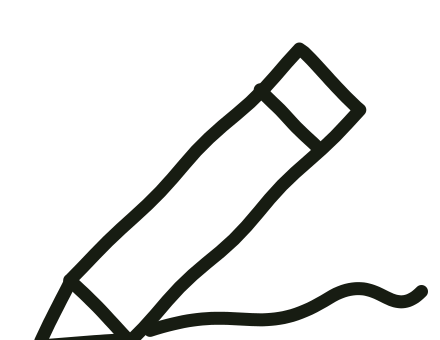
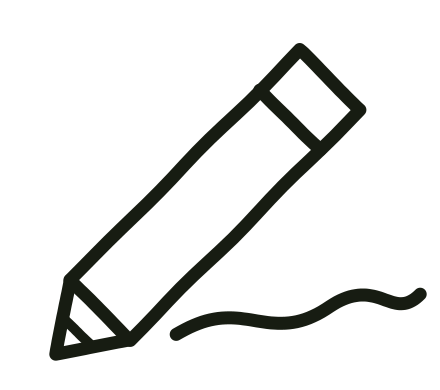
Underlines clear the text below them; ceruza and mosoly redrawn
- Headings with an underline get bottom padding (0.24em; 0.6em for the
  long kunkor/pup/hurok/szaggatott strokes, which scale with the word and
  ran into the note or paragraph below). Checked on all five pages at
  1280 and 375px: every stroke sits on its heading's last line and clears
  the next element.
- Gyermekek: "Biztonság" underline moves to the last-line word ("első"),
  Ajándékok to "eszközök", and Visszajelzés gets the long pup so the
  centred heading's stroke spans "milyen volt!".
- Adománybolt: the konfetti drawing moves from above the list to its
  bottom-right corner.
- ceruza: a pointed, on-axis tip with a lead line, a calmer body, and a
  taller canvas so the tip is no longer cut off. mosoly: a smooth smile
  without the cheek ticks.

Changed region(s): [[0.0591, 0.0882, 0.975, 1.0]]

diff --git a/Gyerekek es szulok.dc.html b/Gyerekek es szulok.dc.html
@@ -135,7 +135,7 @@
       <div data-reveal="" data-sticky="" style="position:sticky;top:110px;display:flex;flex-direction:column;gap:20px;">
         <img class="am-ill" data-ill-pop="wiggle" src="assets/illustrations/amigos-ill-sziv-green.png" alt="" aria-hidden="true" style="right:4%;top:-8px;height:clamp(56px,5.6vw,80px);width:auto;transform:rotate(10deg);">
         <span style="font-size:var(--text-label);letter-spacing:var(--ls-label);text-transform:uppercase;font-weight:600;color:var(--amigos-green-deep);">Biztonság és felkészültség</span>
-        <h2 style="margin:0;font-family:var(--font-hand);font-weight:700;font-size:var(--text-h2);line-height:var(--lh-h2);letter-spacing:var(--ls-h2);max-width:14ch;text-wrap:pretty;">A gyermekek <span class="am-underline am-underline--kunkor-green">biztonsága</span> az első</h2>
+        <h2 style="margin:0;font-family:var(--font-hand);font-weight:700;font-size:var(--text-h2);line-height:var(--lh-h2);letter-spacing:var(--ls-h2);max-width:14ch;text-wrap:pretty;">A gyermekek biztonsága az <span class="am-underline am-underline--kunkor-green">első</span></h2>
         <span class="am-note" style="--am-rot:-3deg;color:var(--amigos-green-deep);">→ felkészülten, figyelmesen</span>
         <p style="margin:0;font-size:var(--text-body);line-height:var(--lh-body);max-width:40ch;color:var(--amigos-ink-2);">Azért készítjük fel az Amigókat, hogy figyelmesen, felelősen és biztonságosan kapcsolódhassanak a gyermekekhez.</p>
         <a href="Amigos Aloldalak.dc.html#adatkezeles" style="font-size:var(--text-body);font-weight:600;text-decoration:none;color:var(--amigos-green-deep);">Adatkezelési tájékoztató →</a>
@@ -221,7 +221,7 @@
   <section id="ajandekok" data-screen-label="Tevékenységek — ajándékok, eszközök" style="background:var(--amigos-white);padding:clamp(72px,10vw,128px) 0;">
     <div style="max-width:1280px;margin:0 auto;padding:0 clamp(20px,4vw,48px);display:flex;flex-direction:column;gap:clamp(32px,5vw,56px);">
       <div data-reveal="" data-split="" style="display:grid;grid-template-columns:5fr 7fr;gap:clamp(24px,4vw,64px);align-items:start;">
-        <div style="position:relative;"><h3 style="margin:0;font-family:var(--font-hand);font-weight:700;font-size:clamp(30px,3vw,40px);line-height:1.05;letter-spacing:0.02em;color:var(--amigos-green-text);"><span class="am-underline am-underline--cikcakk-yellow">Ajándékok</span>, saját fejlesztésű eszközök</h3><img data-ill-pop="wiggle" data-ill-secondary src="assets/illustrations/amigos-ill-lufi-green.png" alt="" aria-hidden="true" style="display:block;margin-top:20px;width:clamp(64px,6vw,88px);height:auto;transform:rotate(10deg);"></div>
+        <div style="position:relative;"><h3 style="margin:0;font-family:var(--font-hand);font-weight:700;font-size:clamp(30px,3vw,40px);line-height:1.05;letter-spacing:0.02em;color:var(--amigos-green-text);">Ajándékok, saját fejlesztésű <span class="am-underline am-underline--cikcakk-yellow">eszközök</span></h3><img data-ill-pop="wiggle" data-ill-secondary src="assets/illustrations/amigos-ill-lufi-green.png" alt="" aria-hidden="true" style="display:block;margin-top:20px;width:clamp(64px,6vw,88px);height:auto;transform:rotate(10deg);"></div>
         <p style="margin:0;font-size:var(--text-body-lg);line-height:var(--lh-body-lg);max-width:52ch;color:var(--amigos-ink-2);">A KALANDobOZZ, a Világutazó, a karácsonyi- és gyermeknapi ajándékok akkor is elvihetik a játék és a felfedezés örömét a gyermekekhez, amikor személyesen nem tudunk találkozni.</p>
       </div>
       <div style="display:grid;grid-template-columns:repeat(3,minmax(0,1fr));gap:clamp(20px,3vw,32px);">
@@ -254,7 +254,7 @@
   <section id="visszajelzes" data-screen-label="Visszajelzés" style="position:relative;overflow:hidden;background:var(--amigos-green-pale);color:var(--amigos-ink);padding:clamp(64px,9vw,112px) 0 0;">
     <div data-reveal="" style="position:relative;max-width:840px;margin:0 auto;padding:0 clamp(20px,4vw,48px) clamp(32px,5vw,56px);display:flex;flex-direction:column;align-items:center;text-align:center;gap:18px;">
       <img class="am-ill" data-ill-pop="wiggle" data-ill-secondary src="assets/illustrations/amigos-ill-buborek-green.png" alt="" aria-hidden="true" style="left:-6%;top:-20px;width:clamp(72px,7vw,104px);transform:rotate(-8deg);">
-      <h2 style="margin: 0; font-family:var(--font-hand);font-weight:700;font-size:var(--text-h2);line-height:var(--lh-h2);letter-spacing:var(--ls-h2); color:var(--amigos-ink); text-wrap: balance;">Találkoztunk már? Mondd el, <span class="am-underline am-underline--rugo-green">milyen volt!</span></h2>
+      <h2 style="margin: 0; font-family:var(--font-hand);font-weight:700;font-size:var(--text-h2);line-height:var(--lh-h2);letter-spacing:var(--ls-h2); color:var(--amigos-ink); text-wrap: balance;">Találkoztunk már? Mondd el, <span class="am-underline am-underline--pup-green">milyen volt!</span></h2>
       <p style="margin:0;font-size:var(--text-body-lg);line-height:var(--lh-body-lg);color:var(--amigos-ink-2);max-width:48ch;">Kíváncsiak vagyunk, hogyan éreztétek magatokat a foglalkozáson. Visszajelzésetek segít abban, hogy az Amigók még figyelmesebben kapcsolódjanak a gyermekekhez.</p>
       <!-- TODO: ha lesz külön visszajelző űrlap, ide kerüljön a linkje -->
       <x-import component-from-global-scope="AmigosDesignSystem_9ec6eb.Button" variant="primary" size="lg" href="mailto:irjnekunk@amigos.hu?subject=Visszajelz%C3%A9s%20egy%20foglalkoz%C3%A1sr%C3%B3l" hint-size="auto,52px">Visszajelzek a foglalkozásról</x-import>

diff --git a/Adomanybolt.dc.html b/Adomanybolt.dc.html
@@ -314,7 +314,7 @@
         <a href="Munkank es hatasunk.dc.html#atlathatosag" style="font-size:var(--text-body);font-weight:600;text-decoration:none;color:var(--amigos-ink);">Átláthatóság →</a>
       </div>
       <div style="position:relative;display:flex;flex-direction:column;border-top:1px solid rgba(19,29,21,0.25);">
-        <img class="am-ill" data-ill-pop data-ill-secondary src="assets/illustrations/amigos-ill-konfetti-yellow.png" alt="" aria-hidden="true" style="right:0;top:-92px;width:clamp(100px,10vw,150px);">
+        <img class="am-ill" data-ill-pop data-ill-secondary src="assets/illustrations/amigos-ill-konfetti-yellow.png" alt="" aria-hidden="true" style="right:0;bottom:-28px;width:clamp(96px,9vw,136px);">
         <div data-reveal="" style="display:grid;grid-template-columns:auto minmax(0,1fr);gap:clamp(20px,3vw,40px);align-items:baseline;padding:26px 0;border-bottom:1px solid rgba(19,29,21,0.25);">
           <span style="font-family:var(--font-display);font-weight:600;font-size:clamp(28px,3.4vw,44px);line-height:1;letter-spacing:-0.03em;color:var(--amigos-white);font-variant-numeric:tabular-nums;white-space:nowrap;">1 munkafüzet</span>
           <span style="font-size:var(--text-body-lg);line-height:var(--lh-body-lg);color:var(--amigos-ink);">= egy kórházi foglalkozás teljes alapanyaga</span>

diff --git a/assets/brand.css b/assets/brand.css
@@ -88,6 +88,13 @@
 .am-underline[class*='--pup-']::after{ width: 92%; aspect-ratio: 1000 / 160; transform: translate(-50%, -18%); }
 /* The long strokes hang lower than the short ones; give their line a
    little more room so they clear whatever follows the title. */
+/* Section headings: the strokes hang below the baseline (the long ones
+   ~0.3em) and ran into the note or paragraph under the heading. The headings carry an
+   inline margin:0, so the room goes in as padding. */
+:is(h2, h3):has(.am-underline){ padding-bottom: 0.24em; }
+:is(h2, h3):has(.am-underline[class*='--pup-'], .am-underline[class*='--kunkor-'], .am-underline[class*='--hurok-'], .am-underline[class*='--szaggatott-']){
+  padding-bottom: 0.6em;
+}
 [data-m="w"]:has(.am-underline[class*='--pup-'], .am-underline[class*='--kunkor-'], .am-underline[class*='--hurok-'], .am-underline[class*='--szaggatott-']){
   margin-bottom: -0.16em !important;
 }

diff --git a/tools/amigos-illustrations.py b/tools/amigos-illustrations.py
@@ -127,19 +127,19 @@ for k in range(0, len(trail) - 8, 16):
 M['papirrepulo'] = d
 
 # ceruza — a tilted pencil with a scribble
-d = D(440, 340)
-d.s(poly((70, 280), (300, 50), (360, 110), (130, 340), (70, 280)), amp=1.6)
-d.s(poly((70, 280), (40, 345), (130, 340)), amp=1.2)
+d = D(440, 390)
+d.s(poly((70, 280), (300, 50), (360, 110), (130, 340), (70, 280)), amp=0.7)
+d.s(poly((70, 280), (56, 354), (130, 340)), amp=0.4)   # sharpened tip
+d.s(line((63, 318), (93, 347)), amp=0.3, sw=10)        # where the wood meets the lead
 d.s(poly((260, 90), (320, 150)), amp=1.2)
-d.s(sample_bez((150, 330), (230, 300), (260, 340), (330, 300)) + sample_bez((330, 300), (380, 270), (390, 320), (420, 290))[1:])
+d.s(sample_bez((176, 334), (240, 300), (268, 342), (330, 306)) + sample_bez((330, 306), (380, 278), (392, 322), (420, 294))[1:])
 M['ceruza'] = d
 
 # mosoly — a smiley with cheek ticks
 d = D()
-d.s(arc(200, 200, 160, 156, -95, 262))
+d.s(arc(200, 200, 160, 156, -95, 262), amp=1.2)
 d.dot(145, 160, 16).dot(255, 160, 16)
-d.s(arc(200, 205, 88, 80, 25, 155))
-d.s(line((86, 222), (102, 238))); d.s(line((314, 222), (298, 238)))
+d.s(arc(200, 196, 92, 84, 22, 158), amp=0.5)
 M['mosoly'] = d
 
 # szivárvány — three arcs and a little cloud foot
